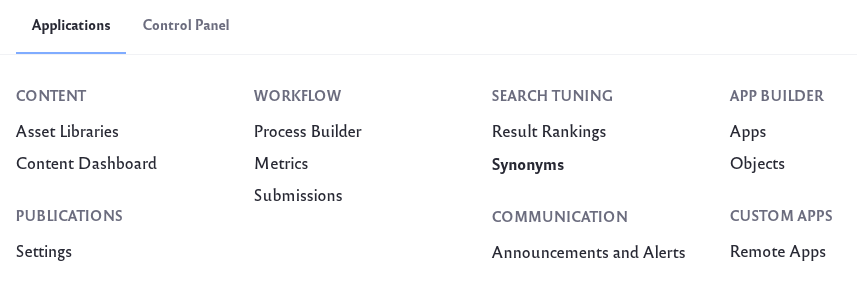
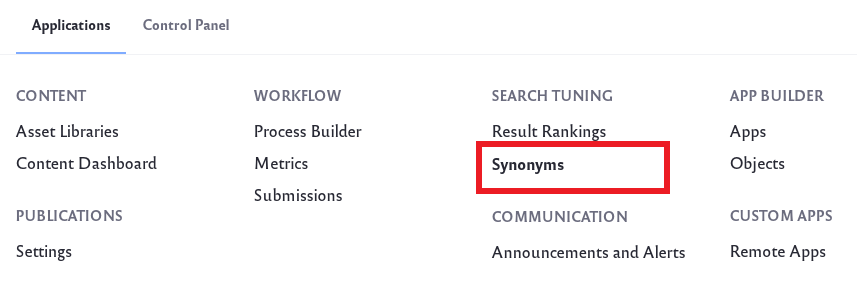
LRDOCS-7782 Wordsmithing, add annotations to screenshots to make it more obvious where to look

Changed region(s): [[0.5461, 0.4806, 0.7888, 0.7067]]

diff --git a/docs/dxp/7.x/en/using-search/search-administration-and-tuning/synonym-sets.md b/docs/dxp/7.x/en/using-search/search-administration-and-tuning/synonym-sets.md
@@ -8,7 +8,7 @@ For example, a user might search for the word "US". Most likely, the user would 
 
 ## Requirement and Limitations
 
-Synonym Sets are only supported when using Elasticsearch as your search engine. If you are using Solr or need to install Elasticsearch, see [Getting Started with Elasticsearch](../installing-and-upgrading-a-search-engine/elasticsearch/getting-started-with-elasticsearch.md).
+Synonym Sets are only supported when using Elasticsearch as your search engine. Learn about installing Elasticsearch in [Getting Started with Elasticsearch](../installing-and-upgrading-a-search-engine/elasticsearch/getting-started-with-elasticsearch.md).
 
 Synonym Sets work with fields indexed in two locales: English and Spanish. Thus, the assets supporting localization out-of-the-box work with Synonym Sets.
 
@@ -16,7 +16,7 @@ The [`=>` format](https://www.elastic.co/guide/en/elasticsearch/guide/current/sy
 
 ## Creating and Managing Synonym Sets
 
-Create a synonym set by adding as many synonymous keywords to a set as you like. Once the synonym set is saved, searches in the same company scope (any site from the Virtual Instance where the synonyms were configured) take effect.
+Create a synonym set by adding as many synonymous keywords to a set as you like. Once the synonym set is saved, searches in the same company scope (any site from the [Virtual Instance](../../system-administration/configuring-liferay/virtual-instances/understanding-virtual-instances.md) where the synonyms were configured) take effect.
 
 To create a new synonym set,
 

diff --git a/docs/dxp/7.x/en/using-search/search-administration-and-tuning/result-rankings.md b/docs/dxp/7.x/en/using-search/search-administration-and-tuning/result-rankings.md
@@ -17,7 +17,7 @@ With Results Rankings you can
 
 ## Requirement and Limitations
 
-Result Rankings are only supported when using Elasticsearch as your search engine. If you are using Solr or need to install Elasticsearch, see [Getting Started with Elasticsearch](../installing-and-upgrading-a-search-engine/elasticsearch/getting-started-with-elasticsearch.md).
+Result Rankings are only supported when using Elasticsearch as your search engine. Learn about installing Elasticsearch in [Getting Started with Elasticsearch](../installing-and-upgrading-a-search-engine/elasticsearch/getting-started-with-elasticsearch.md).
 
 An existing ranking entry cannot be renamed. Renaming requires recreating the ranking under a different name. See [LPS-96357](https://issues.liferay.com/browse/LPS-96357) for more information.
 
